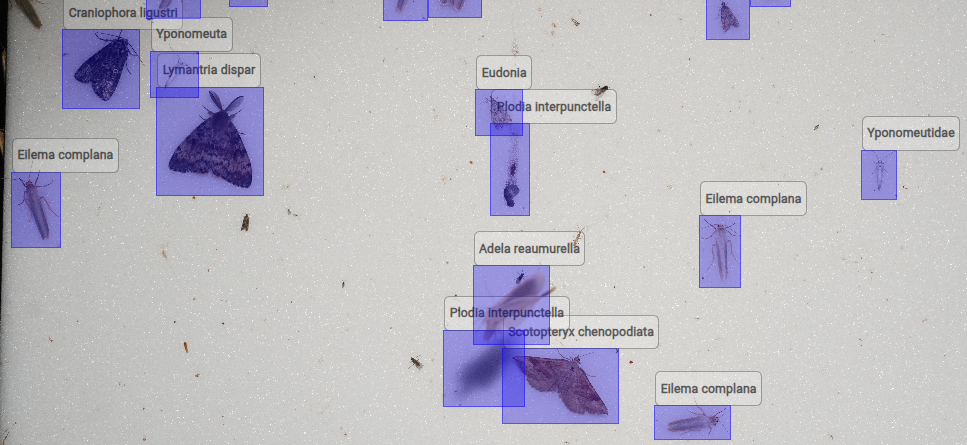
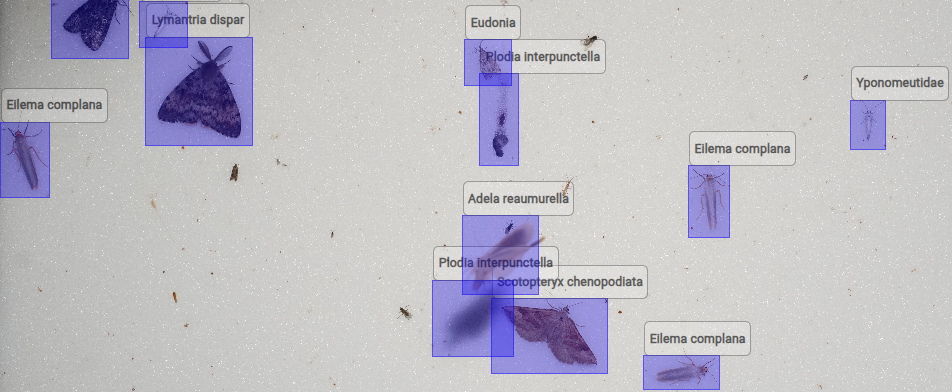
improve

diff --git a/index.html b/index.html
@@ -120,10 +120,16 @@
 					<p>
 						My PhD research focuses on <i>Lepidoptera</i> where I am building a full <strong>localization and classification pipeline</strong>,
 						investigating dataset composition, model architectures, and auxiliary text information such as taxonomic hierarchies to improve <strong>fine-grained recognition</strong>.
-						Our group led by Prof. Joachim Denzeler, works on <strong>medicinal data, physics, and ecology</strong> which stimulates learning across disciplines.
+						<a href="https://inf-cv.uni-jena.de/home/staff/" target="_blank">Our group</a> led by Prof. Joachim Denzeler, works on <strong>medicinal data, physics, and ecology</strong> which stimulates learning across disciplines.
 						I am also a member of <a href="https://ellis.eu/" target="_blank">ELLIS</a>, the European Laboratory for Learning and Intelligent Systems through which I engage in scientific exchange across European research.
 					</p>
 					<img src="images/MothScanner.png"/>
+					<!-- <img src="images/ARNI BoGa .jpg" width="100%" style="margin-top: 10px;" /> -->
+					<div style="display: flex; gap: 10px; align-items: center; margin-top: 10px;">
+						<img src="images/Logo_UniJena.svg.png" style="width: 33%; height: 120px; object-fit: contain;" />
+						<img src="images/lepmonLogo.png" style="width: 33%; height: 120px; object-fit: contain;" />
+						<img src="images/logo_CVG_eye.png" style="width: 33%; height: 120px; object-fit: contain;" />
+					</div>
 					<!-- <p>Students supervised:<br>- Name 1</p> -->
 				</div>
 			</section>